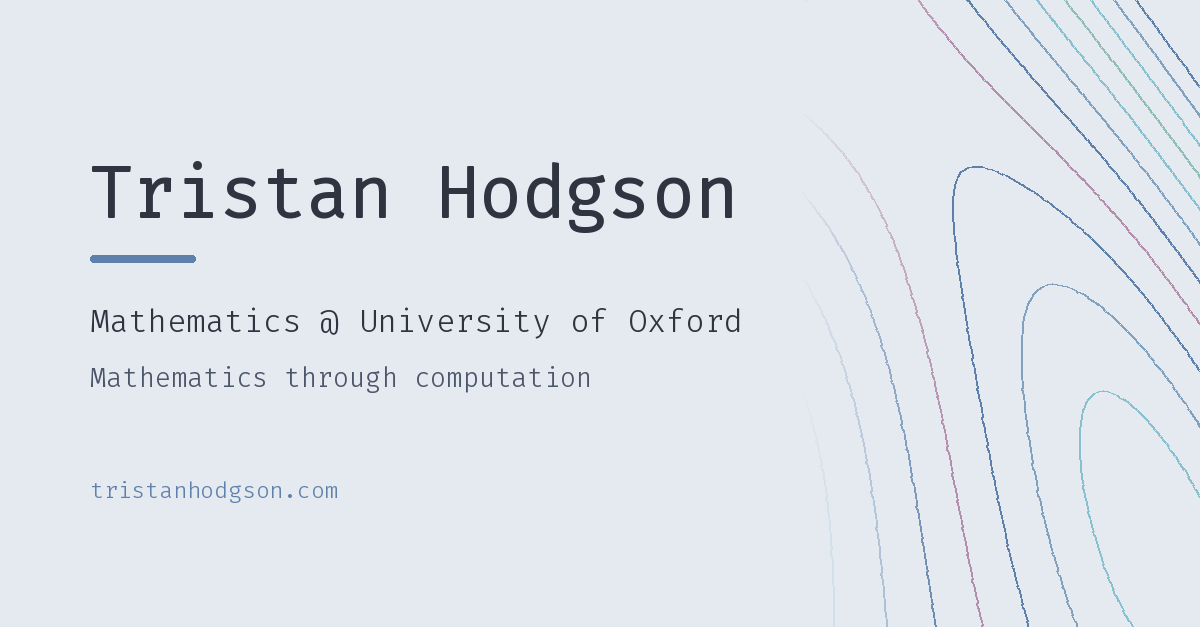
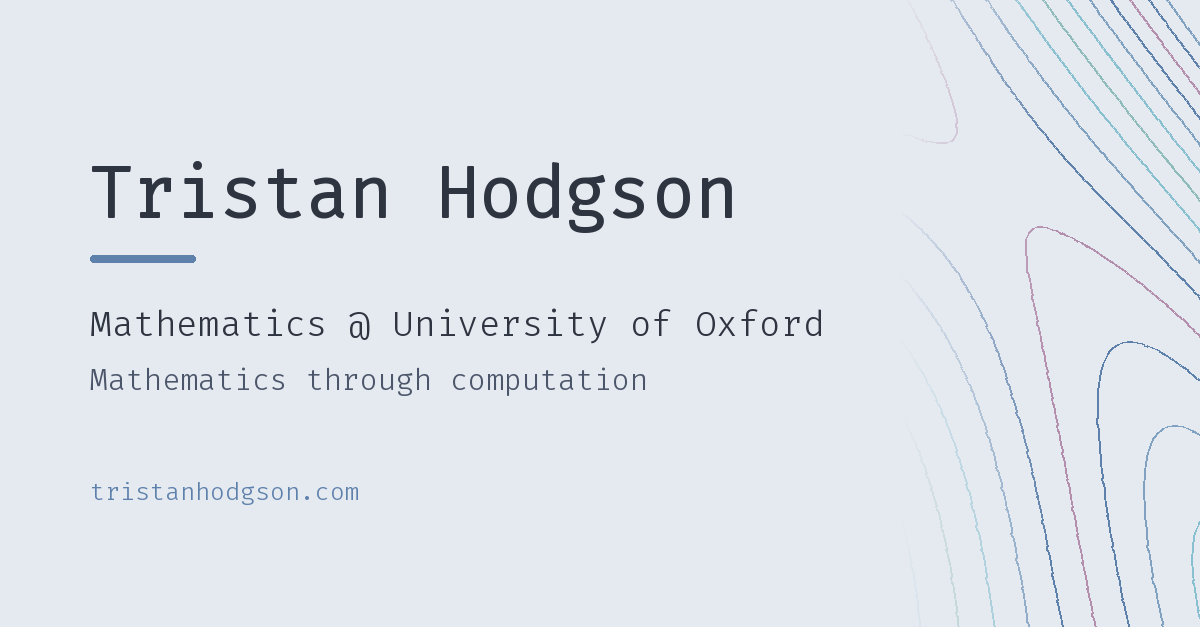
Larger text on social preview

diff --git a/python/main.py b/python/main.py
@@ -102,9 +102,10 @@ detail = "Mathematics through computation"
 url = "tristanhodgson.com"
 
 name_font = font(72)
-subtitle_font = font(32)
-detail_font = font(27)
-url_font = font(23)
+# Increased secondary text sizes by ~1.15x
+subtitle_font = font(36)
+detail_font = font(30)
+url_font = font(25)
 
 x_text = 90
 
@@ -215,8 +216,9 @@ else:
 
 
 # 4. Calculate mapping from Canvas Pixels directly to Mathematical Plane
-IMG1_X, IMG1_Y = 1125, 553   # First min (w) -> Bottom Right
-IMG2_X, IMG2_Y = 650, -150   # Second min (z) -> Top Left (Above canvas and behind fade mask)
+# Shifted +100px in both directions from previous positions
+IMG1_X, IMG1_Y = 1225, 653   # First min (w) -> Bottom Right
+IMG2_X, IMG2_Y = 750, -50    # Second min (z) -> Top Left (Above canvas and behind fade mask)
 
 v_img_x = IMG2_X - IMG1_X
 v_img_y = IMG2_Y - IMG1_Y
@@ -242,10 +244,9 @@ sin_rot = math.sin(rotation)
 
 GRID_RES = 160
 
-# We expand the evaluation grid slightly so that the structure around the 
-# hidden top-left minimum is captured before it sweeps into the frame.
-X_MIN_IMG, X_MAX_IMG = 600, 1400
-Y_MIN_IMG, Y_MAX_IMG = -250, 800
+# We expand and shift the evaluation grid by +100px to match the new image mapping
+X_MIN_IMG, X_MAX_IMG = 700, 1500
+Y_MIN_IMG, Y_MAX_IMG = -150, 900
 
 img_x_coords = [X_MIN_IMG + c * (X_MAX_IMG - X_MIN_IMG) / (GRID_RES - 1) for c in range(GRID_RES)]
 img_y_coords = [Y_MIN_IMG + r * (Y_MAX_IMG - Y_MIN_IMG) / (GRID_RES - 1) for r in range(GRID_RES)]
@@ -318,7 +319,7 @@ def get_contour_segments(grid, thresh, img_x, img_y):
 # Geometric rendering
 # ---------------------------------------------------------------------------
 
-NUM_CONTOURS = 12
+NUM_CONTOURS = 15
 bg_rgb = hex_to_rgb(BG)
 
 palette_len = len(COMPONENT_COLOURS)
@@ -341,10 +342,10 @@ for i in range(1, NUM_CONTOURS):
     for pt1, pt2 in segments:
         x_mid = (pt1[0] + pt2[0]) / 2.0
         
-        # Absolute guarantee against text overlap.
-        # Opacity remains strictly 0.0 until x = 800 (well past the text bounds).
-        # It smoothly fades to full opacity by x = 950.
-        fade = min(1.0, max(0.0, (x_mid - 800) / 150.0))
+        # Shifted the fade mask to x = 900 to accommodate the larger text size.
+        # Opacity remains strictly 0.0 until x = 900 (well past the text bounds).
+        # It smoothly fades to full opacity by x = 1050.
+        fade = min(1.0, max(0.0, (x_mid - 900) / 150.0))
         
         if fade > 0.01:
             blended_rgb = rgb_blend(base_rgb, bg_rgb, fade)
